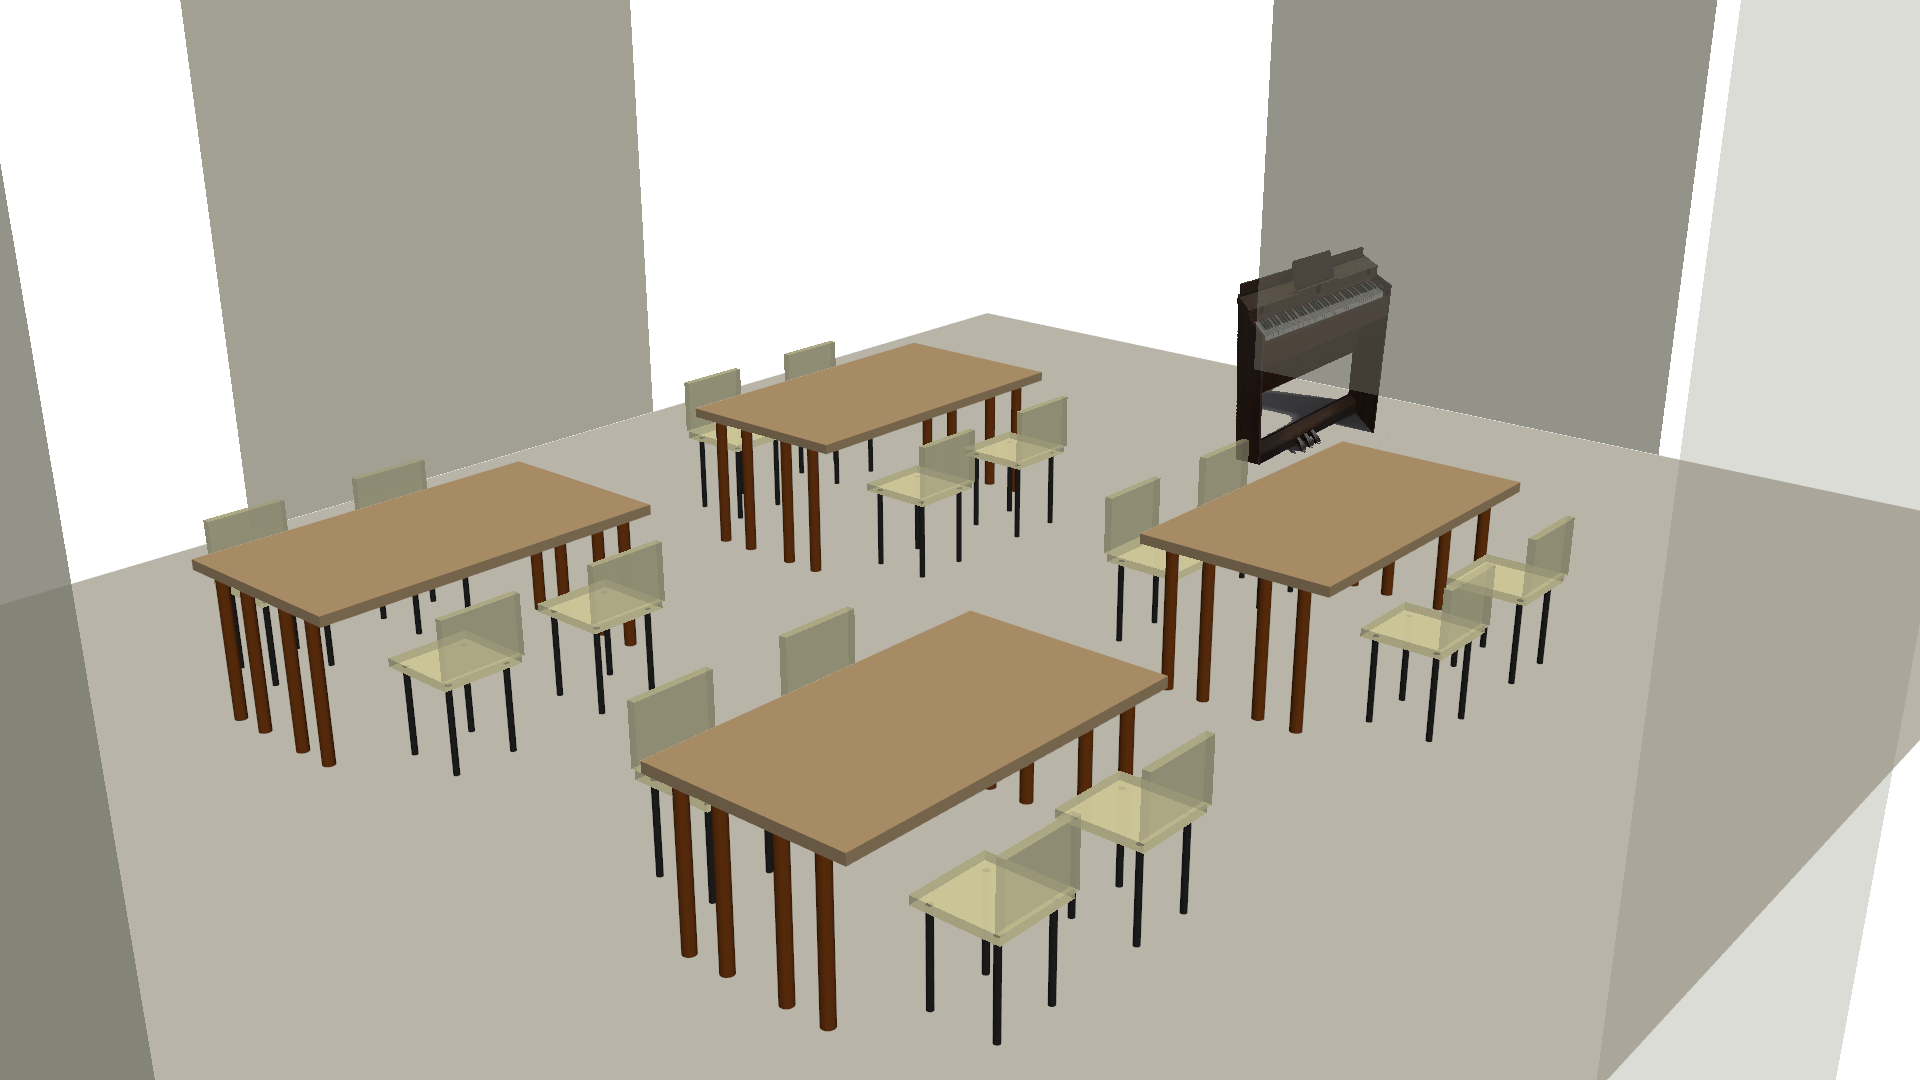
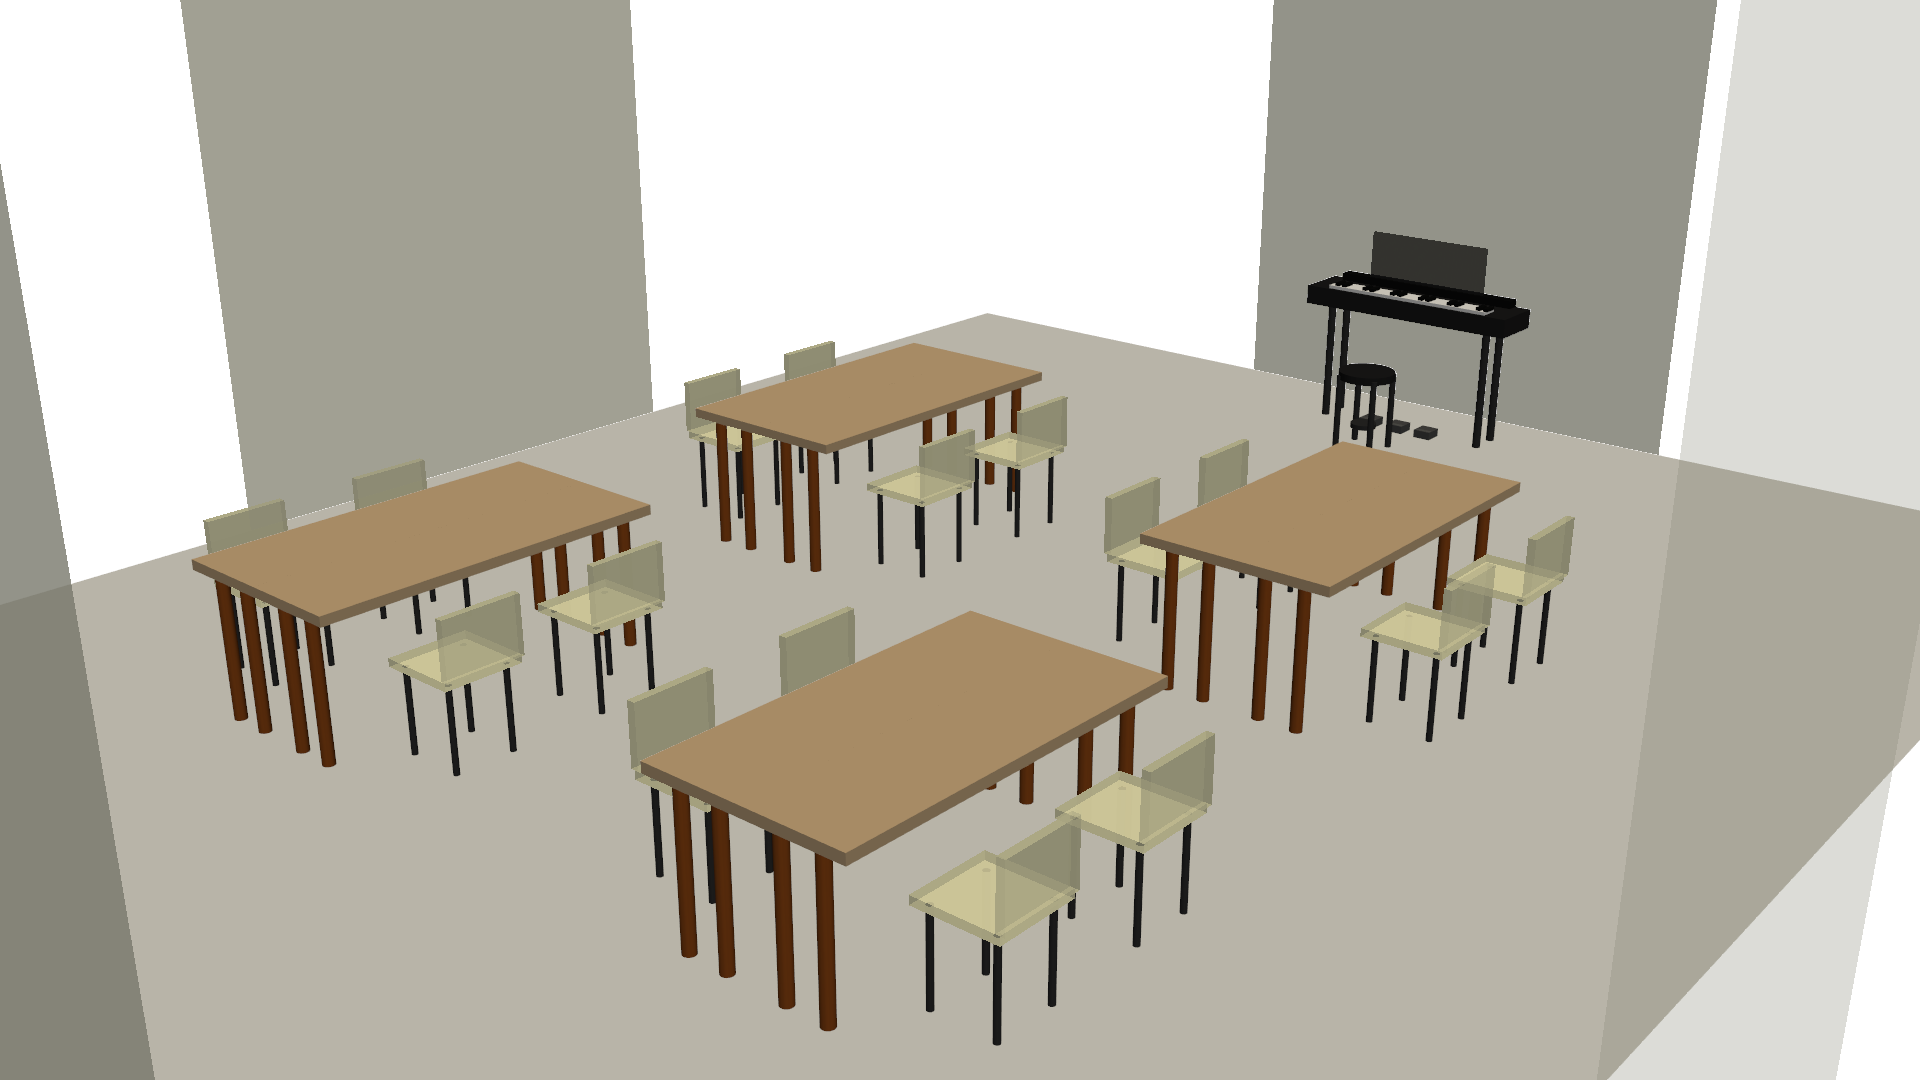
docs: 集会所にピアノを — 音楽で紡ぐコミュニティ提案ページを追加
- piano.html: 電子ピアノ設置提案（商品情報・配置図含む）
- piano_scene.png: 3D図形による配置イメージ
- create_piano_scene.py: 3D図形版スクリプト（PyVista）
- top.html: 更新履歴に追加
- 削除: piano.png（写真版）

Changed region(s): [[0.625, 0.2139, 0.8125, 0.4278]]

diff --git a/docs/modernize/piano.html b/docs/modernize/piano.html
@@ -69,6 +69,25 @@
         </p>
     </section>
 
+    <section style="background: #f9f9f9; padding: 1.5em; border-radius: 8px; margin: 2em 0;">
+        <h2>📐 配置イメージ</h2>
+        <p>
+          集会所のホールに、電子ピアノとテーブル席を配置した場合のレイアウト例です。  
+          ピアノは壁際に設置し、通常の会議・イベント時は邪魔にならない配置としています。
+        </p>
+        <div style="text-align: center; margin: 1.5em 0;">
+          <img src="piano_scene.png" alt="集会所にピアノを配置したレイアウト図" 
+               style="max-width: 100%; height: auto; border: 2px solid #ddd; border-radius: 8px; box-shadow: 0 4px 8px rgba(0,0,0,0.1);">
+        </div>
+        <p style="font-size: 0.9em; color: #555; text-align: center;">
+          ▲ 集会所ホールのレイアウト例：電子ピアノ+スツール（壁際）、会議テーブル4セット（16名分）
+        </p>
+        <p>
+          このように、電子ピアノは集会所の機能を損なうことなく設置できます。  
+          会議や勉強会、カフェイベント、音楽練習など、多目的な利用が可能です。
+        </p>
+    </section>
+
     <section>
         <h2>🌟 期待される活用例</h2>
         <h3>1. ミニコンサート</h3>
@@ -103,6 +122,34 @@
         <p>
           電子ピアノは、入門モデルで3〜5万円、中級モデルで10〜15万円程度。  
           スタンドやヘッドホンを含めても、大きな負担にはなりません。
+        </p>
+        <p style="background: #f0f8ff; padding: 1em; border-left: 4px solid #2980b9; margin: 1em 0;">
+          <strong>💡 具体的な商品例（価格帯別）</strong>
+        </p>
+        <ul style="margin-left: 1.5em;">
+          <li>
+            <strong>入門モデル（5〜7万円台）</strong>  
+            <a href="https://www.amazon.co.jp/dp/B0BXW4S69F/" target="_blank" rel="noopener noreferrer">
+            CASIO Privia PX-S1100
+            </a>
+            — 88鍵、スリムボディ、持ち運び可能。集会所での利用に最適。
+          </li>
+          <li>
+            <strong>中級モデル（10〜20万円台）</strong>  
+            木製鍵盤や高品位スピーカー搭載。本格的な練習・イベント演奏に対応。
+          </li>
+          <li>
+            <strong>上級モデル（20万円以上）</strong>  
+            グランドピアノに近いタッチと音質。専門家による演奏や指導にも使用可能。
+          </li>
+        </ul>
+        <p>
+          最寄りの楽器店
+          <a href="https://www.shimamura.co.jp/shop/tsuchiura/article/product/20260701/4968" target="_blank" rel="noopener noreferrer">
+          島村楽器イオンモール土浦店
+          </a>
+          では、常時30台以上の電子ピアノを展示・試奏可能です。  
+          実際に音やタッチを確かめて選べます。
         </p>
 
         <h3>管理・運用</h3>

diff --git a/docs/top.html b/docs/top.html
@@ -134,6 +134,10 @@
 
       const updates = [
         {
+          date: '2026-07-11',
+          description: `「<a href="modernize/piano.html">集会所にピアノを — 音楽で紡ぐコミュニティ</a>」を掲載しました。`
+        },
+        {
           date: '2026-06-09',
           description: `「<a href="community/2026__/カフェ開催文書（7月～９月）.pdf">観音台カフェの開催日 ７月～９月</a>」を掲載しました。`
         },

diff --git a/docs/modernize/create_piano_scene.py b/docs/modernize/create_piano_scene.py
@@ -22,23 +22,132 @@ plotter.add_mesh(wall_front, color='#F5F5DC', opacity=0.3)
 plotter.add_mesh(wall_left, color='#F5F5DC', opacity=0.8)
 plotter.add_mesh(wall_right, color='#F5F5DC', opacity=0.8)
 
-# 電子ピアノ（実物写真）- テーブルA と B の間の通路の反対側（カメラから遠い側）に配置
-# piano.png をテクスチャとして平面に貼り付け
-import numpy as np
-texture = pv.read_texture('piano.png')
-# 平面を作成
-piano_plane = pv.Plane(center=(4, 1.8, 0.6), direction=(0, 1, 0), i_size=1.8, j_size=1.2, 
-                       i_resolution=1, j_resolution=1)
-piano_plane.rotate_z(270, point=piano_plane.center)
-# テクスチャ座標を直接設定（反時計回りに90度回転）
-# この状態で上下は正しい（ペダルが下、鍵盤が上）
-piano_plane.active_texture_coordinates = np.array([
-    [1.0, 1.0],  # 頂点0
-    [1.0, 0.0],  # 頂点1
-    [0.0, 1.0],  # 頂点2
-    [0.0, 0.0]   # 頂点3
-])
-plotter.add_mesh(piano_plane, texture=texture)
+# 電子ピアノ（3D図形）- テーブルA と B の間の通路の反対側（カメラから遠い側）に配置
+# 寸法: 幅1.4m × 奥行0.35m × 高さ0.75m（本体天板まで）
+piano_x_center = 4.0
+piano_y_center = 0.5
+piano_width = 1.4
+piano_depth = 0.35
+piano_height = 0.75
+piano_body_thickness = 0.12
+
+# スタンド（4本脚）
+leg_radius = 0.025
+leg_positions = [
+    (piano_x_center - piano_width/2 + 0.15, piano_y_center - piano_depth/2 + 0.08),
+    (piano_x_center + piano_width/2 - 0.15, piano_y_center - piano_depth/2 + 0.08),
+    (piano_x_center - piano_width/2 + 0.15, piano_y_center + piano_depth/2 - 0.08),
+    (piano_x_center + piano_width/2 - 0.15, piano_y_center + piano_depth/2 - 0.08),
+]
+for leg_x, leg_y in leg_positions:
+    leg = pv.Cylinder(center=(leg_x, leg_y, piano_height/2), 
+                     direction=(0, 0, 1), radius=leg_radius, height=piano_height)
+    plotter.add_mesh(leg, color='#2a2a2a')
+
+# 本体（黒い筐体）
+piano_body = pv.Box(bounds=(
+    piano_x_center - piano_width/2, piano_x_center + piano_width/2,
+    piano_y_center - piano_depth/2, piano_y_center + piano_depth/2,
+    piano_height, piano_height + piano_body_thickness
+))
+plotter.add_mesh(piano_body, color='#1a1a1a')
+
+# コントロールパネル部分（本体の奥側、少し盛り上がっている）
+panel_height = 0.05
+panel = pv.Box(bounds=(
+    piano_x_center - piano_width/2 + 0.1, piano_x_center + piano_width/2 - 0.1,
+    piano_y_center - piano_depth/2, piano_y_center - piano_depth/2 + 0.08,
+    piano_height + piano_body_thickness, piano_height + piano_body_thickness + panel_height
+))
+plotter.add_mesh(panel, color='#0a0a0a')
+
+# 鍵盤部分（白鍵）- 手前側に配置
+keyboard_white = pv.Box(bounds=(
+    piano_x_center - piano_width/2 + 0.15, piano_x_center + piano_width/2 - 0.15,
+    piano_y_center + piano_depth/2 - 0.15, piano_y_center + piano_depth/2 - 0.02,
+    piano_height + piano_body_thickness, piano_height + piano_body_thickness + 0.02
+))
+plotter.add_mesh(keyboard_white, color='#F8F8F8')
+
+# 黒鍵（簡略化して12本、2本ずつのペアで配置）
+# 2本ペアを6組配置
+black_key_pairs = [
+    (-0.55, -0.50),  # ペア1
+    (-0.35, -0.30),  # ペア2
+    (-0.15, -0.10),  # ペア3
+    (0.05, 0.10),    # ペア4
+    (0.25, 0.30),    # ペア5
+    (0.45, 0.50),    # ペア6
+]
+for offset1, offset2 in black_key_pairs:
+    for offset in [offset1, offset2]:
+        black_key = pv.Box(bounds=(
+            piano_x_center + offset - 0.015, piano_x_center + offset + 0.015,
+            piano_y_center + piano_depth/2 - 0.12, piano_y_center + piano_depth/2 - 0.03,
+            piano_height + piano_body_thickness + 0.02, piano_height + piano_body_thickness + 0.04
+        ))
+        plotter.add_mesh(black_key, color='#0a0a0a')
+
+# ペダル部分（3本のペダルを個別に表現）- ピアノ本体の真下に配置
+pedal_base_y = piano_y_center + 0.05  # ピアノ本体の直下
+pedal_positions = [
+    piano_x_center - 0.2,  # 左ペダル
+    piano_x_center,         # 中央ペダル
+    piano_x_center + 0.2,   # 右ペダル
+]
+for pedal_x in pedal_positions:
+    # ペダル本体（少し傾斜をつけた形で）
+    pedal = pv.Box(bounds=(
+        pedal_x - 0.055, pedal_x + 0.055,
+        pedal_base_y, pedal_base_y + 0.12,
+        0.0, 0.05
+    ))
+    plotter.add_mesh(pedal, color='#4a4a4a')  # 少し明るいグレー
+    
+    # ペダル上面（踏む部分）
+    pedal_top = pv.Box(bounds=(
+        pedal_x - 0.05, pedal_x + 0.05,
+        pedal_base_y + 0.08, pedal_base_y + 0.11,
+        0.04, 0.05
+    ))
+    plotter.add_mesh(pedal_top, color='#5a5a5a')
+
+# ピアノスツール（演奏用の椅子）
+stool_x = piano_x_center
+stool_y = piano_y_center + piano_depth/2 + 0.4  # ペダルの少し手前
+stool_height = 0.48
+stool_seat_size = 0.35
+
+# 座面（円形に近い形で、少し丸みを持たせる）
+stool_seat = pv.Cylinder(center=(stool_x, stool_y, stool_height), 
+                        direction=(0, 0, 1), radius=stool_seat_size/2, height=0.05)
+plotter.add_mesh(stool_seat, color='#1a1a1a')
+
+# スツールの脚（4本、細め）
+stool_leg_positions = [
+    (stool_x - 0.12, stool_y - 0.12),
+    (stool_x + 0.12, stool_y - 0.12),
+    (stool_x - 0.12, stool_y + 0.12),
+    (stool_x + 0.12, stool_y + 0.12),
+]
+for leg_x, leg_y in stool_leg_positions:
+    leg = pv.Cylinder(center=(leg_x, leg_y, stool_height/2), 
+                     direction=(0, 0, 1), radius=0.02, height=stool_height)
+    plotter.add_mesh(leg, color='#2a2a2a')
+
+# 脚の間の補強バー（オプション、X字型）
+crossbar_height = 0.15
+crossbar = pv.Cylinder(center=(stool_x, stool_y, crossbar_height), 
+                      direction=(0, 0, 1), radius=0.08, height=0.03)
+plotter.add_mesh(crossbar, color='#2a2a2a')
+
+# 譜面台（オプション、細い板）
+music_stand = pv.Box(bounds=(
+    piano_x_center - 0.4, piano_x_center + 0.4,
+    piano_y_center - piano_depth/2 + 0.05, piano_y_center - piano_depth/2 + 0.07,
+    piano_height + piano_body_thickness + 0.05, piano_height + piano_body_thickness + 0.35
+))
+plotter.add_mesh(music_stand, color='#1a1a1a', opacity=0.8)
 
 # 会議テーブル（180cm × 50cm × 70cm）を8台、2台ずつ短辺で組み合わせて4セット
 # 1セット = 180cm × 100cm × 70cm
